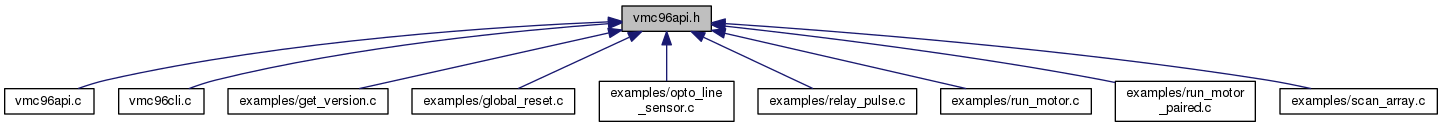
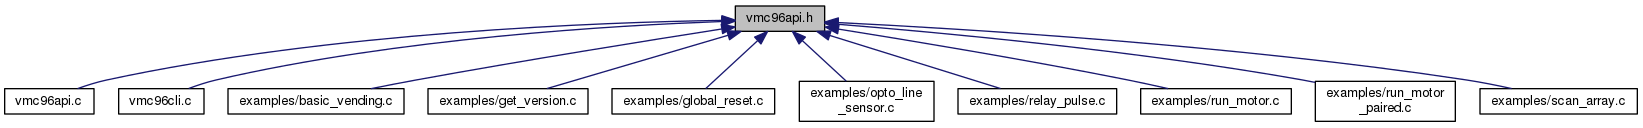
Updating Doc

diff --git a/doc/html/vmc96api_8h.html b/doc/html/vmc96api_8h.html
@@ -60,7 +60,7 @@ This graph shows which files directly or indirectly include this file:</div>
 <div class="dyncontent">
 <div class="center"><img src="vmc96api_8h__dep__incl.png" border="0" usemap="#vmc96api_8hdep" alt=""/></div>
 <map name="vmc96api_8hdep" id="vmc96api_8hdep">
-<area shape="rect" id="node2" href="vmc96api_8c.html" title="VMC96 Board Vending Machine Application Programming Interface API. " alt="" coords="5,88,93,115"/><area shape="rect" id="node3" href="vmc96cli_8c.html" title="VMC96 Board Vending Machine Controller Command Line Interface. " alt="" coords="119,88,204,115"/><area shape="rect" id="node4" href="get__version_8c.html" title="Example: Resquest version string from all controllers. " alt="" coords="228,88,388,115"/><area shape="rect" id="node5" href="global__reset_8c.html" title="Example: Reset All Controllers. " alt="" coords="412,88,575,115"/><area shape="rect" id="node6" href="opto__line__sensor_8c.html" title="Example: Read Status from Opto Line Sensor. " alt="" coords="599,81,733,122"/><area shape="rect" id="node7" href="relay__pulse_8c.html" title="Example: Relay Pulse. " alt="" coords="758,88,916,115"/><area shape="rect" id="node8" href="run__motor_8c.html" title="Example: Run Single Motor. " alt="" coords="941,88,1091,115"/><area shape="rect" id="node9" href="run__motor__paired_8c.html" title="Example: Running Paired Motors. " alt="" coords="1115,81,1255,122"/><area shape="rect" id="node10" href="scan__array_8c.html" title="Example: Scan Motor Array searching for installed motors. " alt="" coords="1280,88,1437,115"/></map>
+<area shape="rect" id="node2" href="vmc96api_8c.html" title="VMC96 Board Vending Machine Application Programming Interface API. " alt="" coords="5,88,93,115"/><area shape="rect" id="node3" href="vmc96cli_8c.html" title="VMC96 Board Vending Machine Controller Command Line Interface. " alt="" coords="119,88,204,115"/><area shape="rect" id="node4" href="basic__vending_8c.html" title="Example: Basic Vending Flow. " alt="" coords="228,88,404,115"/><area shape="rect" id="node5" href="get__version_8c.html" title="Example: Resquest version string from all controllers. " alt="" coords="428,88,588,115"/><area shape="rect" id="node6" href="global__reset_8c.html" title="Example: Reset All Controllers. " alt="" coords="612,88,775,115"/><area shape="rect" id="node7" href="opto__line__sensor_8c.html" title="Example: Read Status from Opto Line Sensor. " alt="" coords="799,81,933,122"/><area shape="rect" id="node8" href="relay__pulse_8c.html" title="Example: Relay Pulse. " alt="" coords="958,88,1116,115"/><area shape="rect" id="node9" href="run__motor_8c.html" title="Example: Run Single Motor. " alt="" coords="1141,88,1291,115"/><area shape="rect" id="node10" href="run__motor__paired_8c.html" title="Example: Running Paired Motors. " alt="" coords="1315,81,1455,122"/><area shape="rect" id="node11" href="scan__array_8c.html" title="Example: Scan Motor Array searching for installed motors. " alt="" coords="1480,88,1637,115"/></map>
 </div>
 </div>
 <p><a href="vmc96api_8h_source.html">Go to the source code of this file.</a></p>
@@ -549,7 +549,7 @@ Functions</h2></td></tr>
 
 <p>Definition at line <a class="el" href="vmc96api_8h_source.html#l00052">52</a> of file <a class="el" href="vmc96api_8h_source.html">vmc96api.h</a>.</p>
 
-<p>Referenced by <a class="el" href="opto__line__sensor_8c_source.html#l00034">main()</a>.</p>
+<p>Referenced by <a class="el" href="opto__line__sensor_8c_source.html#l00034">main()</a>, and <a class="el" href="basic__vending_8c_source.html#l00039">vend()</a>.</p>
 
 </div>
 </div>
@@ -581,7 +581,7 @@ Functions</h2></td></tr>
 
 <p>Definition at line <a class="el" href="vmc96api_8h_source.html#l00054">54</a> of file <a class="el" href="vmc96api_8h_source.html">vmc96api.h</a>.</p>
 
-<p>Referenced by <a class="el" href="opto__line__sensor_8c_source.html#l00034">main()</a>.</p>
+<p>Referenced by <a class="el" href="opto__line__sensor_8c_source.html#l00034">main()</a>, and <a class="el" href="basic__vending_8c_source.html#l00039">vend()</a>.</p>
 
 </div>
 </div>
@@ -597,7 +597,7 @@ Functions</h2></td></tr>
 
 <p>Definition at line <a class="el" href="vmc96api_8h_source.html#l00032">32</a> of file <a class="el" href="vmc96api_8h_source.html">vmc96api.h</a>.</p>
 
-<p>Referenced by <a class="el" href="get__version_8c_source.html#l00034">main()</a>, <a class="el" href="vmc96api_8c_source.html#l00231">vmc96_get_error_code_string()</a>, <a class="el" href="vmc96api_8c_source.html#l00747">vmc96_initialize()</a>, <a class="el" href="vmc96api_8c_source.html#l00341">vmc96_motor_get_status()</a>, <a class="el" href="vmc96api_8c_source.html#l00314">vmc96_motor_get_version()</a>, <a class="el" href="vmc96api_8c_source.html#l00405">vmc96_motor_opto_line_status()</a>, <a class="el" href="vmc96api_8c_source.html#l00431">vmc96_motor_scan_array()</a>, and <a class="el" href="vmc96api_8c_source.html#l00270">vmc96_relay_get_version()</a>.</p>
+<p>Referenced by <a class="el" href="basic__vending_8c_source.html#l00103">main()</a>, <a class="el" href="basic__vending_8c_source.html#l00039">vend()</a>, <a class="el" href="vmc96api_8c_source.html#l00231">vmc96_get_error_code_string()</a>, <a class="el" href="vmc96api_8c_source.html#l00747">vmc96_initialize()</a>, <a class="el" href="vmc96api_8c_source.html#l00341">vmc96_motor_get_status()</a>, <a class="el" href="vmc96api_8c_source.html#l00314">vmc96_motor_get_version()</a>, <a class="el" href="vmc96api_8c_source.html#l00405">vmc96_motor_opto_line_status()</a>, <a class="el" href="vmc96api_8c_source.html#l00431">vmc96_motor_scan_array()</a>, and <a class="el" href="vmc96api_8c_source.html#l00270">vmc96_relay_get_version()</a>.</p>
 
 </div>
 </div>
@@ -716,7 +716,7 @@ Functions</h2></td></tr>
 
 <p>References <a class="el" href="vmc96api_8c_source.html#l00130">VMC96_s::ftdi</a>.</p>
 
-<p>Referenced by <a class="el" href="get__version_8c_source.html#l00034">main()</a>.</p>
+<p>Referenced by <a class="el" href="basic__vending_8c_source.html#l00103">main()</a>.</p>
 
 </div>
 </div>
@@ -747,7 +747,7 @@ Functions</h2></td></tr>
 
 <p>References <a class="el" href="vmc96api_8h_source.html#l00034">VMC96_ERROR_FTDI_INITIALIZE</a>, <a class="el" href="vmc96api_8h_source.html#l00036">VMC96_ERROR_FTDI_OPEN_USB_DEVICE</a>, <a class="el" href="vmc96api_8h_source.html#l00043">VMC96_ERROR_FTDI_PURGE_BUFFERS</a>, <a class="el" href="vmc96api_8h_source.html#l00042">VMC96_ERROR_FTDI_READ_DATA</a>, <a class="el" href="vmc96api_8h_source.html#l00037">VMC96_ERROR_FTDI_RESET_USB</a>, <a class="el" href="vmc96api_8h_source.html#l00038">VMC96_ERROR_FTDI_SET_BAUDRATE</a>, <a class="el" href="vmc96api_8h_source.html#l00035">VMC96_ERROR_FTDI_SET_INTERFACE</a>, <a class="el" href="vmc96api_8h_source.html#l00039">VMC96_ERROR_FTDI_SET_LINE_PROPS</a>, <a class="el" href="vmc96api_8h_source.html#l00040">VMC96_ERROR_FTDI_SET_NO_FLOW</a>, <a class="el" href="vmc96api_8h_source.html#l00041">VMC96_ERROR_FTDI_WRITE_DATA</a>, <a class="el" href="vmc96api_8h_source.html#l00050">VMC96_ERROR_INVALID_MOTOR_COORDINATES</a>, <a class="el" href="vmc96api_8h_source.html#l00044">VMC96_ERROR_K1_RESPONSE_INVALID_CHECKSUM</a>, <a class="el" href="vmc96api_8h_source.html#l00048">VMC96_ERROR_K1_RESPONSE_INVALID_LENGTH</a>, <a class="el" href="vmc96api_8h_source.html#l00047">VMC96_ERROR_K1_RESPONSE_INVALID_SOURCE</a>, <a class="el" href="vmc96api_8h_source.html#l00046">VMC96_ERROR_K1_RESPONSE_MALFORMED</a>, <a class="el" href="vmc96api_8h_source.html#l00045">VMC96_ERROR_K1_RESPONSE_NEGATIVE_ACK</a>, <a class="el" href="vmc96api_8h_source.html#l00049">VMC96_ERROR_K1_RESPONSE_TIMEOUT</a>, <a class="el" href="vmc96api_8h_source.html#l00033">VMC96_ERROR_OUT_OF_MEMORY</a>, and <a class="el" href="vmc96api_8h_source.html#l00032">VMC96_SUCCESS</a>.</p>
 
-<p>Referenced by <a class="el" href="get__version_8c_source.html#l00034">main()</a>.</p>
+<p>Referenced by <a class="el" href="basic__vending_8c_source.html#l00103">main()</a>.</p>
 
 </div>
 </div>
@@ -809,7 +809,7 @@ Functions</h2></td></tr>
 
 <p>References <a class="el" href="vmc96api_8c_source.html#l00130">VMC96_s::ftdi</a>, <a class="el" href="vmc96api_8c_source.html#l00131">VMC96_s::ftdi_version</a>, <a class="el" href="vmc96api_8c_source.html#l00051">VMC96_DEVICE_PRODUCT_ID</a>, <a class="el" href="vmc96api_8c_source.html#l00050">VMC96_DEVICE_VENDOR_ID</a>, <a class="el" href="vmc96api_8h_source.html#l00034">VMC96_ERROR_FTDI_INITIALIZE</a>, <a class="el" href="vmc96api_8h_source.html#l00036">VMC96_ERROR_FTDI_OPEN_USB_DEVICE</a>, <a class="el" href="vmc96api_8h_source.html#l00037">VMC96_ERROR_FTDI_RESET_USB</a>, <a class="el" href="vmc96api_8h_source.html#l00038">VMC96_ERROR_FTDI_SET_BAUDRATE</a>, <a class="el" href="vmc96api_8h_source.html#l00035">VMC96_ERROR_FTDI_SET_INTERFACE</a>, <a class="el" href="vmc96api_8h_source.html#l00039">VMC96_ERROR_FTDI_SET_LINE_PROPS</a>, <a class="el" href="vmc96api_8h_source.html#l00040">VMC96_ERROR_FTDI_SET_NO_FLOW</a>, <a class="el" href="vmc96api_8h_source.html#l00033">VMC96_ERROR_OUT_OF_MEMORY</a>, and <a class="el" href="vmc96api_8h_source.html#l00032">VMC96_SUCCESS</a>.</p>
 
-<p>Referenced by <a class="el" href="get__version_8c_source.html#l00034">main()</a>.</p>
+<p>Referenced by <a class="el" href="basic__vending_8c_source.html#l00103">main()</a>.</p>
 
 </div>
 </div>
@@ -987,7 +987,7 @@ Functions</h2></td></tr>
 
 <p>References <a class="el" href="vmc96api_8c_source.html#l00121">vmc96_message_s::data</a>, <a class="el" href="vmc96api_8c_source.html#l00133">VMC96_s::response</a>, <a class="el" href="vmc96api_8h_source.html#l00081">VMC96_opto_line_sample_block_s::sample</a>, <a class="el" href="vmc96api_8c_source.html#l00089">VMC96_COMMAND_MOTOR_OPTO_LINE_STATUS</a>, <a class="el" href="vmc96api_8c_source.html#l00074">VMC96_CONTROLLER_MOTOR_ARRAY</a>, and <a class="el" href="vmc96api_8h_source.html#l00032">VMC96_SUCCESS</a>.</p>
 
-<p>Referenced by <a class="el" href="opto__line__sensor_8c_source.html#l00034">main()</a>.</p>
+<p>Referenced by <a class="el" href="opto__line__sensor_8c_source.html#l00034">main()</a>, and <a class="el" href="basic__vending_8c_source.html#l00039">vend()</a>.</p>
 
 </div>
 </div>
@@ -1103,6 +1103,8 @@ Functions</h2></td></tr>
 
 <p>References <a class="el" href="vmc96api_8c_source.html#l00080">VMC96_COMMAND_RESET</a>, and <a class="el" href="vmc96api_8c_source.html#l00074">VMC96_CONTROLLER_MOTOR_ARRAY</a>.</p>
 
+<p>Referenced by <a class="el" href="basic__vending_8c_source.html#l00039">vend()</a>.</p>
+
 </div>
 </div>
 <a class="anchor" id="a58c6b252c5cd0f5683142371a1076673"></a>
@@ -1150,7 +1152,7 @@ Functions</h2></td></tr>
 
 <p>References <a class="el" href="vmc96api_8c_source.html#l00087">VMC96_COMMAND_MOTOR_RUN</a>, <a class="el" href="vmc96api_8c_source.html#l00074">VMC96_CONTROLLER_MOTOR_ARRAY</a>, <a class="el" href="vmc96api_8h_source.html#l00050">VMC96_ERROR_INVALID_MOTOR_COORDINATES</a>, <a class="el" href="vmc96api_8c_source.html#l00095">VMC96_GET_MOTOR_ID</a>, and <a class="el" href="vmc96api_8c_source.html#l00099">VMC96_VALIDATE_MOTOR_COORDINATE</a>.</p>
 
-<p>Referenced by <a class="el" href="run__motor_8c_source.html#l00034">main()</a>.</p>
+<p>Referenced by <a class="el" href="run__motor_8c_source.html#l00034">main()</a>, and <a class="el" href="basic__vending_8c_source.html#l00039">vend()</a>.</p>
 
 </div>
 </div>
@@ -1222,6 +1224,8 @@ Functions</h2></td></tr>
 <p>Definition at line <a class="el" href="vmc96api_8c_source.html#l00377">377</a> of file <a class="el" href="vmc96api_8c_source.html">vmc96api.c</a>.</p>
 
 <p>References <a class="el" href="vmc96api_8c_source.html#l00086">VMC96_COMMAND_MOTOR_STOP_ALL</a>, and <a class="el" href="vmc96api_8c_source.html#l00074">VMC96_CONTROLLER_MOTOR_ARRAY</a>.</p>
+
+<p>Referenced by <a class="el" href="basic__vending_8c_source.html#l00039">vend()</a>.</p>
 
 </div>
 </div>

diff --git a/doc/html/files.html b/doc/html/files.html
@@ -50,16 +50,17 @@
 <div class="textblock">Here is a list of all files with brief descriptions:</div><div class="directory">
 <div class="levels">[detail level <span onclick="javascript:toggleLevel(1);">1</span><span onclick="javascript:toggleLevel(2);">2</span>]</div><table class="directory">
 <tr id="row_0_" class="even"><td class="entry"><img id="arr_0_" src="ftv2mnode.png" alt="o" width="16" height="22" onclick="toggleFolder('0_')"/><img id="img_0_" src="ftv2folderopen.png" alt="-" width="24" height="22" onclick="toggleFolder('0_')"/><a class="el" href="dir_d28a4824dc47e487b107a5db32ef43c4.html" target="_self">examples</a></td><td class="desc"></td></tr>
-<tr id="row_0_0_"><td class="entry"><img src="ftv2vertline.png" alt="|" width="16" height="22" /><img src="ftv2node.png" alt="o" width="16" height="22" /><a href="get__version_8c_source.html"><img src="ftv2doc.png" alt="*" width="24" height="22" /></a><a class="el" href="get__version_8c.html" target="_self">get_version.c</a></td><td class="desc">Example: Resquest version string from all controllers </td></tr>
-<tr id="row_0_1_" class="even"><td class="entry"><img src="ftv2vertline.png" alt="|" width="16" height="22" /><img src="ftv2node.png" alt="o" width="16" height="22" /><a href="global__reset_8c_source.html"><img src="ftv2doc.png" alt="*" width="24" height="22" /></a><a class="el" href="global__reset_8c.html" target="_self">global_reset.c</a></td><td class="desc">Example: Reset All Controllers </td></tr>
-<tr id="row_0_2_"><td class="entry"><img src="ftv2vertline.png" alt="|" width="16" height="22" /><img src="ftv2node.png" alt="o" width="16" height="22" /><a href="opto__line__sensor_8c_source.html"><img src="ftv2doc.png" alt="*" width="24" height="22" /></a><a class="el" href="opto__line__sensor_8c.html" target="_self">opto_line_sensor.c</a></td><td class="desc">Example: Read Status from Opto Line Sensor </td></tr>
-<tr id="row_0_3_" class="even"><td class="entry"><img src="ftv2vertline.png" alt="|" width="16" height="22" /><img src="ftv2node.png" alt="o" width="16" height="22" /><a href="relay__pulse_8c_source.html"><img src="ftv2doc.png" alt="*" width="24" height="22" /></a><a class="el" href="relay__pulse_8c.html" target="_self">relay_pulse.c</a></td><td class="desc">Example: Relay Pulse </td></tr>
-<tr id="row_0_4_"><td class="entry"><img src="ftv2vertline.png" alt="|" width="16" height="22" /><img src="ftv2node.png" alt="o" width="16" height="22" /><a href="run__motor_8c_source.html"><img src="ftv2doc.png" alt="*" width="24" height="22" /></a><a class="el" href="run__motor_8c.html" target="_self">run_motor.c</a></td><td class="desc">Example: Run Single Motor </td></tr>
-<tr id="row_0_5_" class="even"><td class="entry"><img src="ftv2vertline.png" alt="|" width="16" height="22" /><img src="ftv2node.png" alt="o" width="16" height="22" /><a href="run__motor__paired_8c_source.html"><img src="ftv2doc.png" alt="*" width="24" height="22" /></a><a class="el" href="run__motor__paired_8c.html" target="_self">run_motor_paired.c</a></td><td class="desc">Example: Running Paired Motors </td></tr>
-<tr id="row_0_6_"><td class="entry"><img src="ftv2vertline.png" alt="|" width="16" height="22" /><img src="ftv2lastnode.png" alt="\" width="16" height="22" /><a href="scan__array_8c_source.html"><img src="ftv2doc.png" alt="*" width="24" height="22" /></a><a class="el" href="scan__array_8c.html" target="_self">scan_array.c</a></td><td class="desc">Example: Scan Motor Array searching for installed motors </td></tr>
-<tr id="row_1_" class="even"><td class="entry"><img src="ftv2node.png" alt="o" width="16" height="22" /><a href="vmc96api_8c_source.html"><img src="ftv2doc.png" alt="*" width="24" height="22" /></a><a class="el" href="vmc96api_8c.html" target="_self">vmc96api.c</a></td><td class="desc">VMC96 Board Vending Machine Application Programming Interface API </td></tr>
-<tr id="row_2_"><td class="entry"><img src="ftv2node.png" alt="o" width="16" height="22" /><a href="vmc96api_8h_source.html"><img src="ftv2doc.png" alt="*" width="24" height="22" /></a><a class="el" href="vmc96api_8h.html" target="_self">vmc96api.h</a></td><td class="desc">VMC96 Board Vending Machine Application Programming Interface API </td></tr>
-<tr id="row_3_" class="even"><td class="entry"><img src="ftv2lastnode.png" alt="\" width="16" height="22" /><a href="vmc96cli_8c_source.html"><img src="ftv2doc.png" alt="*" width="24" height="22" /></a><a class="el" href="vmc96cli_8c.html" target="_self">vmc96cli.c</a></td><td class="desc">VMC96 Board Vending Machine Controller Command Line Interface </td></tr>
+<tr id="row_0_0_"><td class="entry"><img src="ftv2vertline.png" alt="|" width="16" height="22" /><img src="ftv2node.png" alt="o" width="16" height="22" /><a href="basic__vending_8c_source.html"><img src="ftv2doc.png" alt="*" width="24" height="22" /></a><a class="el" href="basic__vending_8c.html" target="_self">basic_vending.c</a></td><td class="desc">Example: Basic Vending Flow </td></tr>
+<tr id="row_0_1_" class="even"><td class="entry"><img src="ftv2vertline.png" alt="|" width="16" height="22" /><img src="ftv2node.png" alt="o" width="16" height="22" /><a href="get__version_8c_source.html"><img src="ftv2doc.png" alt="*" width="24" height="22" /></a><a class="el" href="get__version_8c.html" target="_self">get_version.c</a></td><td class="desc">Example: Resquest version string from all controllers </td></tr>
+<tr id="row_0_2_"><td class="entry"><img src="ftv2vertline.png" alt="|" width="16" height="22" /><img src="ftv2node.png" alt="o" width="16" height="22" /><a href="global__reset_8c_source.html"><img src="ftv2doc.png" alt="*" width="24" height="22" /></a><a class="el" href="global__reset_8c.html" target="_self">global_reset.c</a></td><td class="desc">Example: Reset All Controllers </td></tr>
+<tr id="row_0_3_" class="even"><td class="entry"><img src="ftv2vertline.png" alt="|" width="16" height="22" /><img src="ftv2node.png" alt="o" width="16" height="22" /><a href="opto__line__sensor_8c_source.html"><img src="ftv2doc.png" alt="*" width="24" height="22" /></a><a class="el" href="opto__line__sensor_8c.html" target="_self">opto_line_sensor.c</a></td><td class="desc">Example: Read Status from Opto Line Sensor </td></tr>
+<tr id="row_0_4_"><td class="entry"><img src="ftv2vertline.png" alt="|" width="16" height="22" /><img src="ftv2node.png" alt="o" width="16" height="22" /><a href="relay__pulse_8c_source.html"><img src="ftv2doc.png" alt="*" width="24" height="22" /></a><a class="el" href="relay__pulse_8c.html" target="_self">relay_pulse.c</a></td><td class="desc">Example: Relay Pulse </td></tr>
+<tr id="row_0_5_" class="even"><td class="entry"><img src="ftv2vertline.png" alt="|" width="16" height="22" /><img src="ftv2node.png" alt="o" width="16" height="22" /><a href="run__motor_8c_source.html"><img src="ftv2doc.png" alt="*" width="24" height="22" /></a><a class="el" href="run__motor_8c.html" target="_self">run_motor.c</a></td><td class="desc">Example: Run Single Motor </td></tr>
+<tr id="row_0_6_"><td class="entry"><img src="ftv2vertline.png" alt="|" width="16" height="22" /><img src="ftv2node.png" alt="o" width="16" height="22" /><a href="run__motor__paired_8c_source.html"><img src="ftv2doc.png" alt="*" width="24" height="22" /></a><a class="el" href="run__motor__paired_8c.html" target="_self">run_motor_paired.c</a></td><td class="desc">Example: Running Paired Motors </td></tr>
+<tr id="row_0_7_" class="even"><td class="entry"><img src="ftv2vertline.png" alt="|" width="16" height="22" /><img src="ftv2lastnode.png" alt="\" width="16" height="22" /><a href="scan__array_8c_source.html"><img src="ftv2doc.png" alt="*" width="24" height="22" /></a><a class="el" href="scan__array_8c.html" target="_self">scan_array.c</a></td><td class="desc">Example: Scan Motor Array searching for installed motors </td></tr>
+<tr id="row_1_"><td class="entry"><img src="ftv2node.png" alt="o" width="16" height="22" /><a href="vmc96api_8c_source.html"><img src="ftv2doc.png" alt="*" width="24" height="22" /></a><a class="el" href="vmc96api_8c.html" target="_self">vmc96api.c</a></td><td class="desc">VMC96 Board Vending Machine Application Programming Interface API </td></tr>
+<tr id="row_2_" class="even"><td class="entry"><img src="ftv2node.png" alt="o" width="16" height="22" /><a href="vmc96api_8h_source.html"><img src="ftv2doc.png" alt="*" width="24" height="22" /></a><a class="el" href="vmc96api_8h.html" target="_self">vmc96api.h</a></td><td class="desc">VMC96 Board Vending Machine Application Programming Interface API </td></tr>
+<tr id="row_3_"><td class="entry"><img src="ftv2lastnode.png" alt="\" width="16" height="22" /><a href="vmc96cli_8c_source.html"><img src="ftv2doc.png" alt="*" width="24" height="22" /></a><a class="el" href="vmc96cli_8c.html" target="_self">vmc96cli.c</a></td><td class="desc">VMC96 Board Vending Machine Controller Command Line Interface </td></tr>
 </table>
 </div><!-- directory -->
 </div><!-- contents -->

diff --git a/doc/html/vmc96api_8c.html b/doc/html/vmc96api_8c.html
@@ -842,7 +842,7 @@ Functions</h2></td></tr>
 
 <p>References <a class="el" href="vmc96api_8c_source.html#l00130">VMC96_s::ftdi</a>.</p>
 
-<p>Referenced by <a class="el" href="get__version_8c_source.html#l00034">main()</a>.</p>
+<p>Referenced by <a class="el" href="basic__vending_8c_source.html#l00103">main()</a>.</p>
 
 </div>
 </div>
@@ -873,7 +873,7 @@ Functions</h2></td></tr>
 
 <p>References <a class="el" href="vmc96api_8h_source.html#l00034">VMC96_ERROR_FTDI_INITIALIZE</a>, <a class="el" href="vmc96api_8h_source.html#l00036">VMC96_ERROR_FTDI_OPEN_USB_DEVICE</a>, <a class="el" href="vmc96api_8h_source.html#l00043">VMC96_ERROR_FTDI_PURGE_BUFFERS</a>, <a class="el" href="vmc96api_8h_source.html#l00042">VMC96_ERROR_FTDI_READ_DATA</a>, <a class="el" href="vmc96api_8h_source.html#l00037">VMC96_ERROR_FTDI_RESET_USB</a>, <a class="el" href="vmc96api_8h_source.html#l00038">VMC96_ERROR_FTDI_SET_BAUDRATE</a>, <a class="el" href="vmc96api_8h_source.html#l00035">VMC96_ERROR_FTDI_SET_INTERFACE</a>, <a class="el" href="vmc96api_8h_source.html#l00039">VMC96_ERROR_FTDI_SET_LINE_PROPS</a>, <a class="el" href="vmc96api_8h_source.html#l00040">VMC96_ERROR_FTDI_SET_NO_FLOW</a>, <a class="el" href="vmc96api_8h_source.html#l00041">VMC96_ERROR_FTDI_WRITE_DATA</a>, <a class="el" href="vmc96api_8h_source.html#l00050">VMC96_ERROR_INVALID_MOTOR_COORDINATES</a>, <a class="el" href="vmc96api_8h_source.html#l00044">VMC96_ERROR_K1_RESPONSE_INVALID_CHECKSUM</a>, <a class="el" href="vmc96api_8h_source.html#l00048">VMC96_ERROR_K1_RESPONSE_INVALID_LENGTH</a>, <a class="el" href="vmc96api_8h_source.html#l00047">VMC96_ERROR_K1_RESPONSE_INVALID_SOURCE</a>, <a class="el" href="vmc96api_8h_source.html#l00046">VMC96_ERROR_K1_RESPONSE_MALFORMED</a>, <a class="el" href="vmc96api_8h_source.html#l00045">VMC96_ERROR_K1_RESPONSE_NEGATIVE_ACK</a>, <a class="el" href="vmc96api_8h_source.html#l00049">VMC96_ERROR_K1_RESPONSE_TIMEOUT</a>, <a class="el" href="vmc96api_8h_source.html#l00033">VMC96_ERROR_OUT_OF_MEMORY</a>, and <a class="el" href="vmc96api_8h_source.html#l00032">VMC96_SUCCESS</a>.</p>
 
-<p>Referenced by <a class="el" href="get__version_8c_source.html#l00034">main()</a>.</p>
+<p>Referenced by <a class="el" href="basic__vending_8c_source.html#l00103">main()</a>.</p>
 
 </div>
 </div>
@@ -935,7 +935,7 @@ Functions</h2></td></tr>
 
 <p>References <a class="el" href="vmc96api_8c_source.html#l00130">VMC96_s::ftdi</a>, <a class="el" href="vmc96api_8c_source.html#l00131">VMC96_s::ftdi_version</a>, <a class="el" href="vmc96api_8c_source.html#l00051">VMC96_DEVICE_PRODUCT_ID</a>, <a class="el" href="vmc96api_8c_source.html#l00050">VMC96_DEVICE_VENDOR_ID</a>, <a class="el" href="vmc96api_8h_source.html#l00034">VMC96_ERROR_FTDI_INITIALIZE</a>, <a class="el" href="vmc96api_8h_source.html#l00036">VMC96_ERROR_FTDI_OPEN_USB_DEVICE</a>, <a class="el" href="vmc96api_8h_source.html#l00037">VMC96_ERROR_FTDI_RESET_USB</a>, <a class="el" href="vmc96api_8h_source.html#l00038">VMC96_ERROR_FTDI_SET_BAUDRATE</a>, <a class="el" href="vmc96api_8h_source.html#l00035">VMC96_ERROR_FTDI_SET_INTERFACE</a>, <a class="el" href="vmc96api_8h_source.html#l00039">VMC96_ERROR_FTDI_SET_LINE_PROPS</a>, <a class="el" href="vmc96api_8h_source.html#l00040">VMC96_ERROR_FTDI_SET_NO_FLOW</a>, <a class="el" href="vmc96api_8h_source.html#l00033">VMC96_ERROR_OUT_OF_MEMORY</a>, and <a class="el" href="vmc96api_8h_source.html#l00032">VMC96_SUCCESS</a>.</p>
 
-<p>Referenced by <a class="el" href="get__version_8c_source.html#l00034">main()</a>.</p>
+<p>Referenced by <a class="el" href="basic__vending_8c_source.html#l00103">main()</a>.</p>
 
 </div>
 </div>
@@ -1113,7 +1113,7 @@ Functions</h2></td></tr>
 
 <p>References <a class="el" href="vmc96api_8c_source.html#l00121">vmc96_message_s::data</a>, <a class="el" href="vmc96api_8c_source.html#l00133">VMC96_s::response</a>, <a class="el" href="vmc96api_8h_source.html#l00081">VMC96_opto_line_sample_block_s::sample</a>, <a class="el" href="vmc96api_8c_source.html#l00089">VMC96_COMMAND_MOTOR_OPTO_LINE_STATUS</a>, <a class="el" href="vmc96api_8c_source.html#l00074">VMC96_CONTROLLER_MOTOR_ARRAY</a>, and <a class="el" href="vmc96api_8h_source.html#l00032">VMC96_SUCCESS</a>.</p>
 
-<p>Referenced by <a class="el" href="opto__line__sensor_8c_source.html#l00034">main()</a>.</p>
+<p>Referenced by <a class="el" href="opto__line__sensor_8c_source.html#l00034">main()</a>, and <a class="el" href="basic__vending_8c_source.html#l00039">vend()</a>.</p>
 
 </div>
 </div>
@@ -1229,6 +1229,8 @@ Functions</h2></td></tr>
 
 <p>References <a class="el" href="vmc96api_8c_source.html#l00080">VMC96_COMMAND_RESET</a>, and <a class="el" href="vmc96api_8c_source.html#l00074">VMC96_CONTROLLER_MOTOR_ARRAY</a>.</p>
 
+<p>Referenced by <a class="el" href="basic__vending_8c_source.html#l00039">vend()</a>.</p>
+
 </div>
 </div>
 <a class="anchor" id="a58c6b252c5cd0f5683142371a1076673"></a>
@@ -1276,7 +1278,7 @@ Functions</h2></td></tr>
 
 <p>References <a class="el" href="vmc96api_8c_source.html#l00087">VMC96_COMMAND_MOTOR_RUN</a>, <a class="el" href="vmc96api_8c_source.html#l00074">VMC96_CONTROLLER_MOTOR_ARRAY</a>, <a class="el" href="vmc96api_8h_source.html#l00050">VMC96_ERROR_INVALID_MOTOR_COORDINATES</a>, <a class="el" href="vmc96api_8c_source.html#l00095">VMC96_GET_MOTOR_ID</a>, and <a class="el" href="vmc96api_8c_source.html#l00099">VMC96_VALIDATE_MOTOR_COORDINATE</a>.</p>
 
-<p>Referenced by <a class="el" href="run__motor_8c_source.html#l00034">main()</a>.</p>
+<p>Referenced by <a class="el" href="run__motor_8c_source.html#l00034">main()</a>, and <a class="el" href="basic__vending_8c_source.html#l00039">vend()</a>.</p>
 
 </div>
 </div>
@@ -1348,6 +1350,8 @@ Functions</h2></td></tr>
 <p>Definition at line <a class="el" href="vmc96api_8c_source.html#l00377">377</a> of file <a class="el" href="vmc96api_8c_source.html">vmc96api.c</a>.</p>
 
 <p>References <a class="el" href="vmc96api_8c_source.html#l00086">VMC96_COMMAND_MOTOR_STOP_ALL</a>, and <a class="el" href="vmc96api_8c_source.html#l00074">VMC96_CONTROLLER_MOTOR_ARRAY</a>.</p>
+
+<p>Referenced by <a class="el" href="basic__vending_8c_source.html#l00039">vend()</a>.</p>
 
 </div>
 </div>

diff --git a/doc/html/globals_func.html b/doc/html/globals_func.html
@@ -69,26 +69,30 @@
 , <a class="el" href="opto__line__sensor_8c.html#a3c04138a5bfe5d72780bb7e82a18e627">opto_line_sensor.c</a>
 , <a class="el" href="global__reset_8c.html#a3c04138a5bfe5d72780bb7e82a18e627">global_reset.c</a>
 , <a class="el" href="get__version_8c.html#a3c04138a5bfe5d72780bb7e82a18e627">get_version.c</a>
+, <a class="el" href="basic__vending_8c.html#a3c04138a5bfe5d72780bb7e82a18e627">basic_vending.c</a>
 </li>
 </ul>
 
 
 <h3><a class="anchor" id="index_v"></a>- v -</h3><ul>
+<li>vend()
+: <a class="el" href="basic__vending_8c.html#a57dafe36a10302df7b9bbe39daf1b04a">basic_vending.c</a>
+</li>
 <li>vmc96_finish()
 : <a class="el" href="vmc96api_8h.html#a9564998ba37f9f4263d1876e1cb846a3">vmc96api.h</a>
 , <a class="el" href="vmc96api_8c.html#a9564998ba37f9f4263d1876e1cb846a3">vmc96api.c</a>
 </li>
 <li>vmc96_get_error_code_string()
-: <a class="el" href="vmc96api_8c.html#a002db57e79f73dfe52074595439d6d66">vmc96api.c</a>
-, <a class="el" href="vmc96api_8h.html#a002db57e79f73dfe52074595439d6d66">vmc96api.h</a>
+: <a class="el" href="vmc96api_8h.html#a002db57e79f73dfe52074595439d6d66">vmc96api.h</a>
+, <a class="el" href="vmc96api_8c.html#a002db57e79f73dfe52074595439d6d66">vmc96api.c</a>
 </li>
 <li>vmc96_global_reset()
 : <a class="el" href="vmc96api_8h.html#a56db829a21bce8ea68f1a1748c081289">vmc96api.h</a>
 , <a class="el" href="vmc96api_8c.html#a56db829a21bce8ea68f1a1748c081289">vmc96api.c</a>
 </li>
 <li>vmc96_initialize()
-: <a class="el" href="vmc96api_8c.html#a9c4f41bb0967dbbe6fb416116e36b214">vmc96api.c</a>
-, <a class="el" href="vmc96api_8h.html#aafe5bf2a6fd0a027e56620800c135211">vmc96api.h</a>
+: <a class="el" href="vmc96api_8h.html#aafe5bf2a6fd0a027e56620800c135211">vmc96api.h</a>
+, <a class="el" href="vmc96api_8c.html#a9c4f41bb0967dbbe6fb416116e36b214">vmc96api.c</a>
 </li>
 <li>vmc96_motor_get_status()
 : <a class="el" href="vmc96api_8h.html#a6e66bab0e8605049f907a94e5b15da84">vmc96api.h</a>
@@ -103,8 +107,8 @@
 , <a class="el" href="vmc96api_8c.html#a0861fa81e710783bac2daca192adb5de">vmc96api.c</a>
 </li>
 <li>vmc96_motor_opto_line_status()
-: <a class="el" href="vmc96api_8c.html#a494f81fd3e21f440fdeaf399124cbe06">vmc96api.c</a>
-, <a class="el" href="vmc96api_8h.html#adfe0400a1e85943c0e78d83fefa93a71">vmc96api.h</a>
+: <a class="el" href="vmc96api_8h.html#adfe0400a1e85943c0e78d83fefa93a71">vmc96api.h</a>
+, <a class="el" href="vmc96api_8c.html#a494f81fd3e21f440fdeaf399124cbe06">vmc96api.c</a>
 </li>
 <li>vmc96_motor_pair_run()
 : <a class="el" href="vmc96api_8h.html#a671369a0d1afa147aa145323942f75c4">vmc96api.h</a>
@@ -115,8 +119,8 @@
 , <a class="el" href="vmc96api_8c.html#adc4776cf29675d135444586d162fcb0c">vmc96api.c</a>
 </li>
 <li>vmc96_motor_reset()
-: <a class="el" href="vmc96api_8h.html#a32729fa76257c09ef25c9c630402a91c">vmc96api.h</a>
-, <a class="el" href="vmc96api_8c.html#a32729fa76257c09ef25c9c630402a91c">vmc96api.c</a>
+: <a class="el" href="vmc96api_8c.html#a32729fa76257c09ef25c9c630402a91c">vmc96api.c</a>
+, <a class="el" href="vmc96api_8h.html#a32729fa76257c09ef25c9c630402a91c">vmc96api.h</a>
 </li>
 <li>vmc96_motor_run()
 : <a class="el" href="vmc96api_8h.html#a58c6b252c5cd0f5683142371a1076673">vmc96api.h</a>
@@ -127,16 +131,16 @@
 , <a class="el" href="vmc96api_8c.html#af8bb3e803d07ab682f99760a9aaaf2c8">vmc96api.c</a>
 </li>
 <li>vmc96_motor_stop_all()
-: <a class="el" href="vmc96api_8h.html#a7aad08b3bf16be877e1e2848f4ca92dd">vmc96api.h</a>
-, <a class="el" href="vmc96api_8c.html#a7aad08b3bf16be877e1e2848f4ca92dd">vmc96api.c</a>
+: <a class="el" href="vmc96api_8c.html#a7aad08b3bf16be877e1e2848f4ca92dd">vmc96api.c</a>
+, <a class="el" href="vmc96api_8h.html#a7aad08b3bf16be877e1e2848f4ca92dd">vmc96api.h</a>
 </li>
 <li>vmc96_relay_control()
 : <a class="el" href="vmc96api_8c.html#a5e97c28f78638a75671e7996f68185db">vmc96api.c</a>
 , <a class="el" href="vmc96api_8h.html#a5e97c28f78638a75671e7996f68185db">vmc96api.h</a>
 </li>
 <li>vmc96_relay_get_version()
-: <a class="el" href="vmc96api_8c.html#a8f83648b957242c1ba11a7c14374cb9c">vmc96api.c</a>
-, <a class="el" href="vmc96api_8h.html#a8f83648b957242c1ba11a7c14374cb9c">vmc96api.h</a>
+: <a class="el" href="vmc96api_8h.html#a8f83648b957242c1ba11a7c14374cb9c">vmc96api.h</a>
+, <a class="el" href="vmc96api_8c.html#a8f83648b957242c1ba11a7c14374cb9c">vmc96api.c</a>
 </li>
 <li>vmc96_relay_ping()
 : <a class="el" href="vmc96api_8h.html#a5609385b3251a68ac50af9ca8c8f9dae">vmc96api.h</a>

diff --git a/doc/html/globals.html b/doc/html/globals.html
@@ -69,11 +69,24 @@
 , <a class="el" href="opto__line__sensor_8c.html#a3c04138a5bfe5d72780bb7e82a18e627">opto_line_sensor.c</a>
 , <a class="el" href="global__reset_8c.html#a3c04138a5bfe5d72780bb7e82a18e627">global_reset.c</a>
 , <a class="el" href="get__version_8c.html#a3c04138a5bfe5d72780bb7e82a18e627">get_version.c</a>
+, <a class="el" href="basic__vending_8c.html#a3c04138a5bfe5d72780bb7e82a18e627">basic_vending.c</a>
 </li>
 </ul>
 
 
 <h3><a class="anchor" id="index_v"></a>- v -</h3><ul>
+<li>vend()
+: <a class="el" href="basic__vending_8c.html#a57dafe36a10302df7b9bbe39daf1b04a">basic_vending.c</a>
+</li>
+<li>VEND_ERROR
+: <a class="el" href="basic__vending_8c.html#a7ea9d1ec9ee976033aa991db076b2306">basic_vending.c</a>
+</li>
+<li>VEND_OK
+: <a class="el" href="basic__vending_8c.html#ad47dbd44c0d1df733faa72e8f44a1e8b">basic_vending.c</a>
+</li>
+<li>VEND_TIMEOUT
+: <a class="el" href="basic__vending_8c.html#ad8377e2afedfb0bfffb0ec7050fefb53">basic_vending.c</a>
+</li>
 <li>VMC96_COMMAND_GLOBAL_RESET
 : <a class="el" href="vmc96api_8c.html#af40dff5165303e8c385a394f380c7281">vmc96api.c</a>
 </li>
@@ -326,8 +339,8 @@
 , <a class="el" href="vmc96api_8c.html#a5609385b3251a68ac50af9ca8c8f9dae">vmc96api.c</a>
 </li>
 <li>vmc96_relay_reset()
-: <a class="el" href="vmc96api_8h.html#ac4134ad3ee3eb207d5c051322a193992">vmc96api.h</a>
-, <a class="el" href="vmc96api_8c.html#ac4134ad3ee3eb207d5c051322a193992">vmc96api.c</a>
+: <a class="el" href="vmc96api_8c.html#ac4134ad3ee3eb207d5c051322a193992">vmc96api.c</a>
+, <a class="el" href="vmc96api_8h.html#ac4134ad3ee3eb207d5c051322a193992">vmc96api.h</a>
 </li>
 <li>VMC96_SLEEP_MS
 : <a class="el" href="vmc96api_8c.html#a3ed912488bc9b13306818a41ce5a85d2">vmc96api.c</a>

diff --git a/doc/html/dir_d28a4824dc47e487b107a5db32ef43c4.html b/doc/html/dir_d28a4824dc47e487b107a5db32ef43c4.html
@@ -55,6 +55,9 @@ Directory dependency graph for examples:</div>
 <table class="memberdecls">
 <tr class="heading"><td colspan="2"><h2 class="groupheader"><a name="files"></a>
 Files</h2></td></tr>
+<tr class="memitem:basic__vending_8c"><td class="memItemLeft" align="right" valign="top">file &#160;</td><td class="memItemRight" valign="bottom"><a class="el" href="basic__vending_8c.html">basic_vending.c</a> <a href="basic__vending_8c_source.html">[code]</a></td></tr>
+<tr class="memdesc:basic__vending_8c"><td class="mdescLeft">&#160;</td><td class="mdescRight">Example: Basic Vending Flow. <br/></td></tr>
+<tr class="separator:"><td class="memSeparator" colspan="2">&#160;</td></tr>
 <tr class="memitem:get__version_8c"><td class="memItemLeft" align="right" valign="top">file &#160;</td><td class="memItemRight" valign="bottom"><a class="el" href="get__version_8c.html">get_version.c</a> <a href="get__version_8c_source.html">[code]</a></td></tr>
 <tr class="memdesc:get__version_8c"><td class="mdescLeft">&#160;</td><td class="mdescRight">Example: Resquest version string from all controllers. <br/></td></tr>
 <tr class="separator:"><td class="memSeparator" colspan="2">&#160;</td></tr>

diff --git a/doc/html/structVMC96__opto__line__sample__block__s.html b/doc/html/structVMC96__opto__line__sample__block__s.html
@@ -85,7 +85,7 @@ Public Attributes</h2></td></tr>
 
 <p>Definition at line <a class="el" href="vmc96api_8h_source.html#l00081">81</a> of file <a class="el" href="vmc96api_8h_source.html">vmc96api.h</a>.</p>
 
-<p>Referenced by <a class="el" href="opto__line__sensor_8c_source.html#l00034">main()</a>, and <a class="el" href="vmc96api_8c_source.html#l00405">vmc96_motor_opto_line_status()</a>.</p>
+<p>Referenced by <a class="el" href="opto__line__sensor_8c_source.html#l00034">main()</a>, <a class="el" href="basic__vending_8c_source.html#l00039">vend()</a>, and <a class="el" href="vmc96api_8c_source.html#l00405">vmc96_motor_opto_line_status()</a>.</p>
 
 </div>
 </div>

diff --git a/doc/html/globals_defs.html b/doc/html/globals_defs.html
@@ -59,6 +59,15 @@
 &#160;
 
 <h3><a class="anchor" id="index_v"></a>- v -</h3><ul>
+<li>VEND_ERROR
+: <a class="el" href="basic__vending_8c.html#a7ea9d1ec9ee976033aa991db076b2306">basic_vending.c</a>
+</li>
+<li>VEND_OK
+: <a class="el" href="basic__vending_8c.html#ad47dbd44c0d1df733faa72e8f44a1e8b">basic_vending.c</a>
+</li>
+<li>VEND_TIMEOUT
+: <a class="el" href="basic__vending_8c.html#ad8377e2afedfb0bfffb0ec7050fefb53">basic_vending.c</a>
+</li>
 <li>VMC96_COMMAND_GLOBAL_RESET
 : <a class="el" href="vmc96api_8c.html#af40dff5165303e8c385a394f380c7281">vmc96api.c</a>
 </li>
